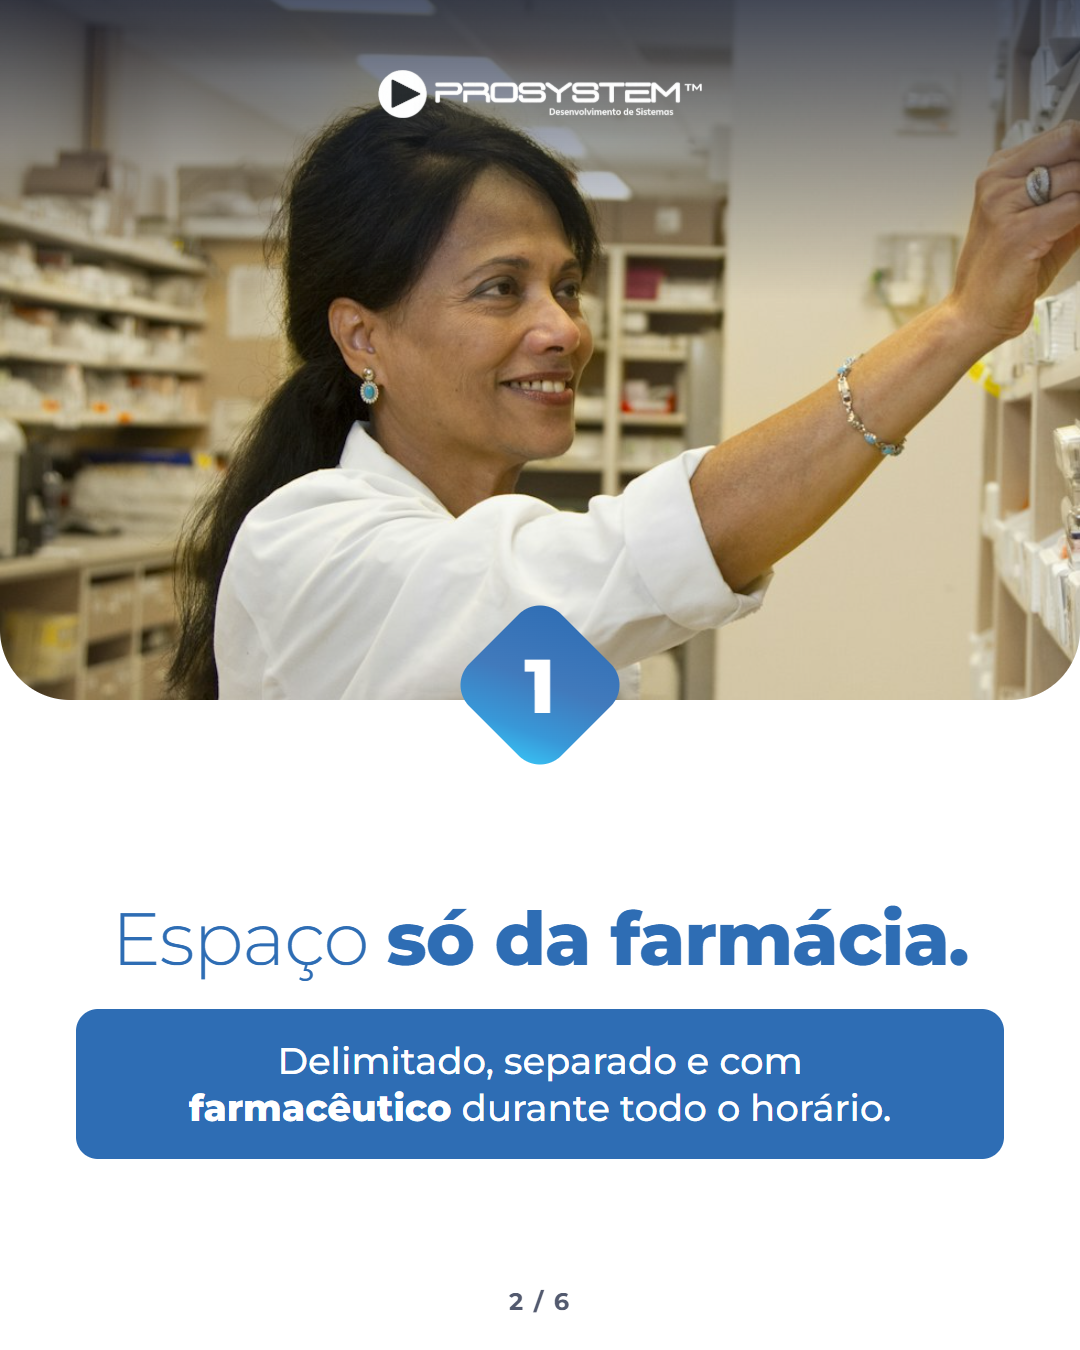
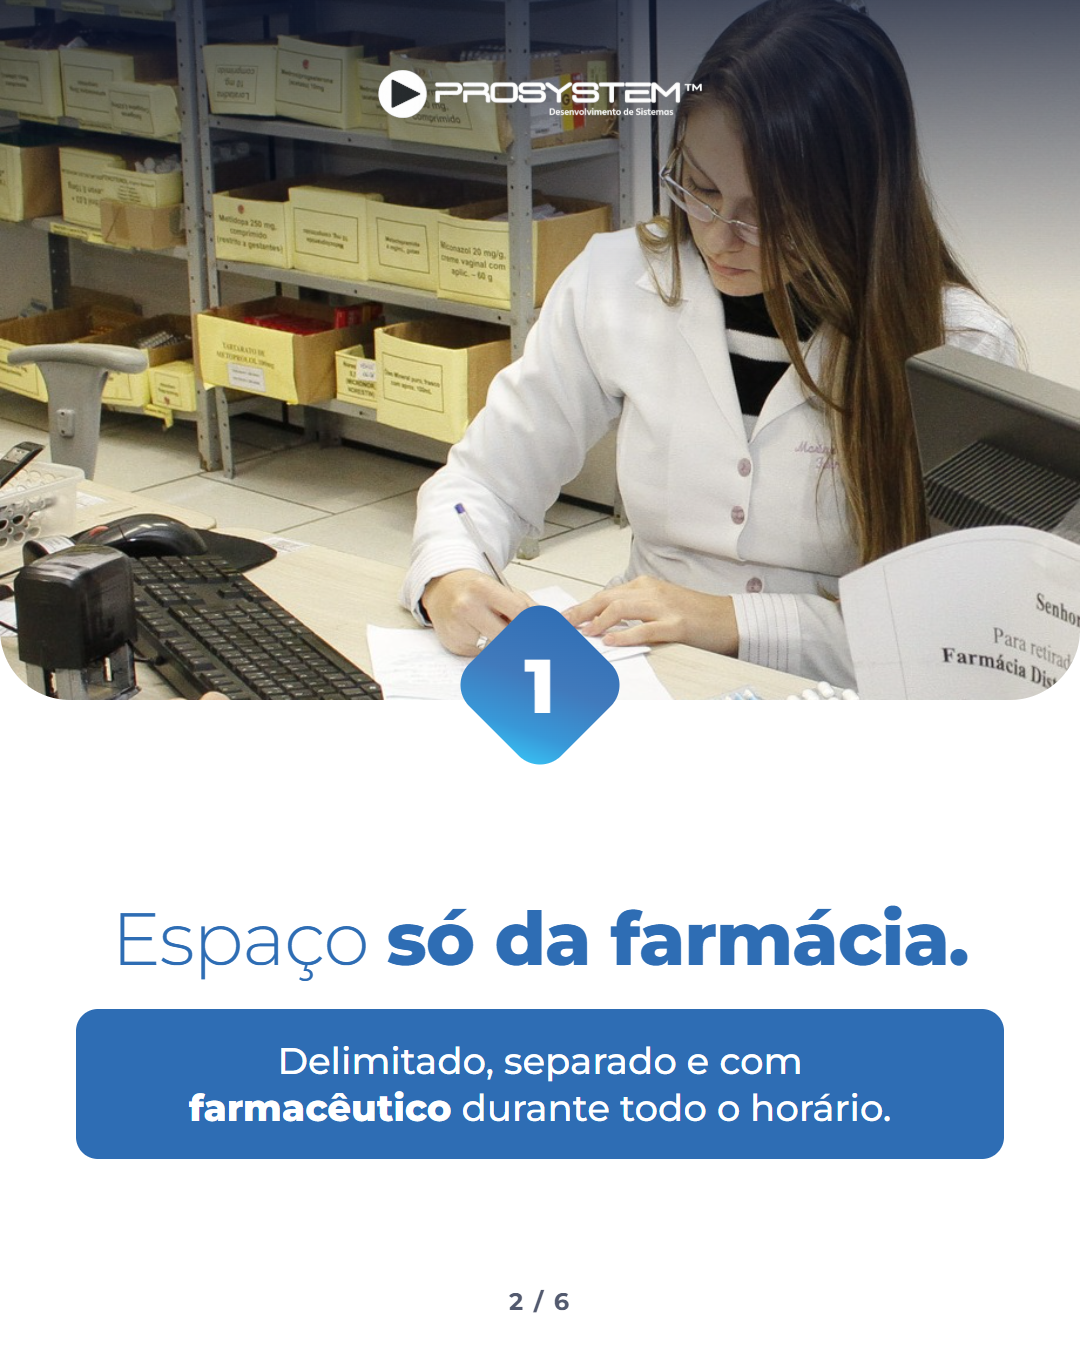
Atualização automática (04/11/2026 14:00): 7 arquivo(s)
Arquivos: outputs/criativos/farmacia-supermercado/fotos/mercado-caixas.jpg, outputs/criativos/farmacia-supermercado/gerar-carrosseis.js, outputs/criativos/farmacia-supermercado/pecas/carrossel-mercado-farmacia-lei-v1-1.png e mais 4

diff --git a/outputs/criativos/farmacia-supermercado/gerar-carrosseis.js b/outputs/criativos/farmacia-supermercado/gerar-carrosseis.js
@@ -14,9 +14,9 @@ const SITE = 'prosystemnet.com.br';
 
 // Itens: cada foto entra em uma página só, sem tela do sistema (a Jessica faz os mockups, se quiser).
 const mercadoItens = [
-  { n: 1, titulo: 'Espaço <b>só da farmácia.</b>', apoio: 'Delimitado, separado e com <b>farmacêutico</b> durante todo o horário.', foto: 'farmaceutica-recorte' },
+  { n: 1, titulo: 'Espaço <b>só da farmácia.</b>', apoio: 'Delimitado, separado e com <b>farmacêutico</b> durante todo o horário.', foto: 'farmaceutica-receita' },
   { n: 2, titulo: 'Remédio <b>fora da gôndola</b> do corredor.', apoio: 'Controlado só é entregue <b>depois de pago</b> ou vai lacrado até o caixa.', foto: 'cartelas-detalhe' },
-  { n: 3, titulo: 'Lote e validade <b>em cada venda.</b>', apoio: 'Se um lote for recolhido, você precisa saber <b>para quem vendeu.</b>', foto: 'conferindo-frasco-sem-rotulo' },
+  { n: 3, titulo: 'Lote e validade <b>em cada venda.</b>', apoio: 'Se um lote for recolhido, você precisa saber <b>para quem vendeu.</b>', foto: 'farmaceutico-conferindo' },
 ];
 const farmaciaItens = [
   { n: 1, titulo: 'Lembre da reposição <b>antes do mercado.</b>', apoio: 'O sistema calcula a próxima compra do uso contínuo e <b>avisa o balcão.</b>', foto: 'comprimidos-coloridos' },
@@ -29,7 +29,7 @@ const carrosseis = [
     capa: { titulo: 'Farmácia no mercado: <b>a lei já permite.</b>', apoio: '3 regras antes de abrir a sua', foto: 'mercado-caixas' },
     itens: mercadoItens,
     sol: { titulo: 'Farmácia precisa de sistema de farmácia', apoio: 'Lote, validade, controlados e vendas da farmácia separadas.', foto: 'prateleiras-escuras' },
-    fim: { titulo: 'Vai abrir farmácia <b>no seu mercado?</b>', foto: 'corredor-seta' } },
+    fim: { titulo: 'Vai abrir farmácia <b>no seu mercado?</b>', foto: 'corredor-seta', pos: '50% 88%' } },
   { id: 'carrossel-farmacia-supermercado-v1', tema: 'azul', estilo: 'v3',
     capa: { titulo: 'O mercado agora <b>vende remédio.</b> E a sua farmácia?', foto: 'carrinho-compras' },
     itens: farmaciaItens,
@@ -130,7 +130,7 @@ function v2(c) {
     out.push(pg(c, k + 2, '', `<img class="v2-foto" src="${foto(it.foto)}" alt=""><div class="topo-sombra"></div>${claro}<div class="v2-sel"><span>${it.n}</span></div><div class="v2-txt"><h2>${it.titulo}</h2><p class="faixa">${it.apoio}</p></div>${num(k + 2)}`));
   });
   out.push(pg(c, 5, 'sobre', `<img class="cheia" src="${foto(c.sol.foto)}" alt=""><div class="topo-sombra"></div>${claro}<div class="v2-painel"><h2>${c.sol.titulo}</h2><p>${c.sol.apoio}</p></div>${num(5)}`));
-  out.push(pg(c, 6, 'forte', `<img class="v2-fim-foto" src="${foto(c.fim.foto)}" alt=""><div class="topo-sombra"></div>${claro}<div class="v2-fim"><h2>${c.fim.titulo}</h2>${provas}<span class="pil">Fale com um especialista</span><div class="site">${SITE}</div></div>`));
+  out.push(pg(c, 6, 'forte', `<img class="v2-fim-foto" src="${foto(c.fim.foto)}" alt="" style="object-position:${c.fim.pos || '50% 50%'}"><div class="topo-sombra"></div>${claro}<div class="v2-fim"><h2>${c.fim.titulo}</h2>${provas}<span class="pil">Fale com um especialista</span><div class="site">${SITE}</div></div>`));
   return out;
 }
 

diff --git a/outputs/criativos/farmacia-supermercado/preparar.py b/outputs/criativos/farmacia-supermercado/preparar.py
@@ -44,8 +44,8 @@ def salvar(im, nome, largura=1600):
 # e as placas com a marca da rede bem desfocadas.
 im = Image.open(ORIG / "mercado-caixas.jpg").convert("RGB")
 w, h = im.size
-im = im.crop((int(w * 0.30), 0, w, h))
-im = desfoca(im, (0, 0.18, 1, 0.50), 18)
+im = im.crop((int(w * 0.30), int(h * 0.30), w, h))
+im = desfoca(im, (0, 0, 1, 0.30), 18)
 im = im.filter(ImageFilter.GaussianBlur(4))
 salvar(sem_amarelo(im), "mercado-caixas")
 
